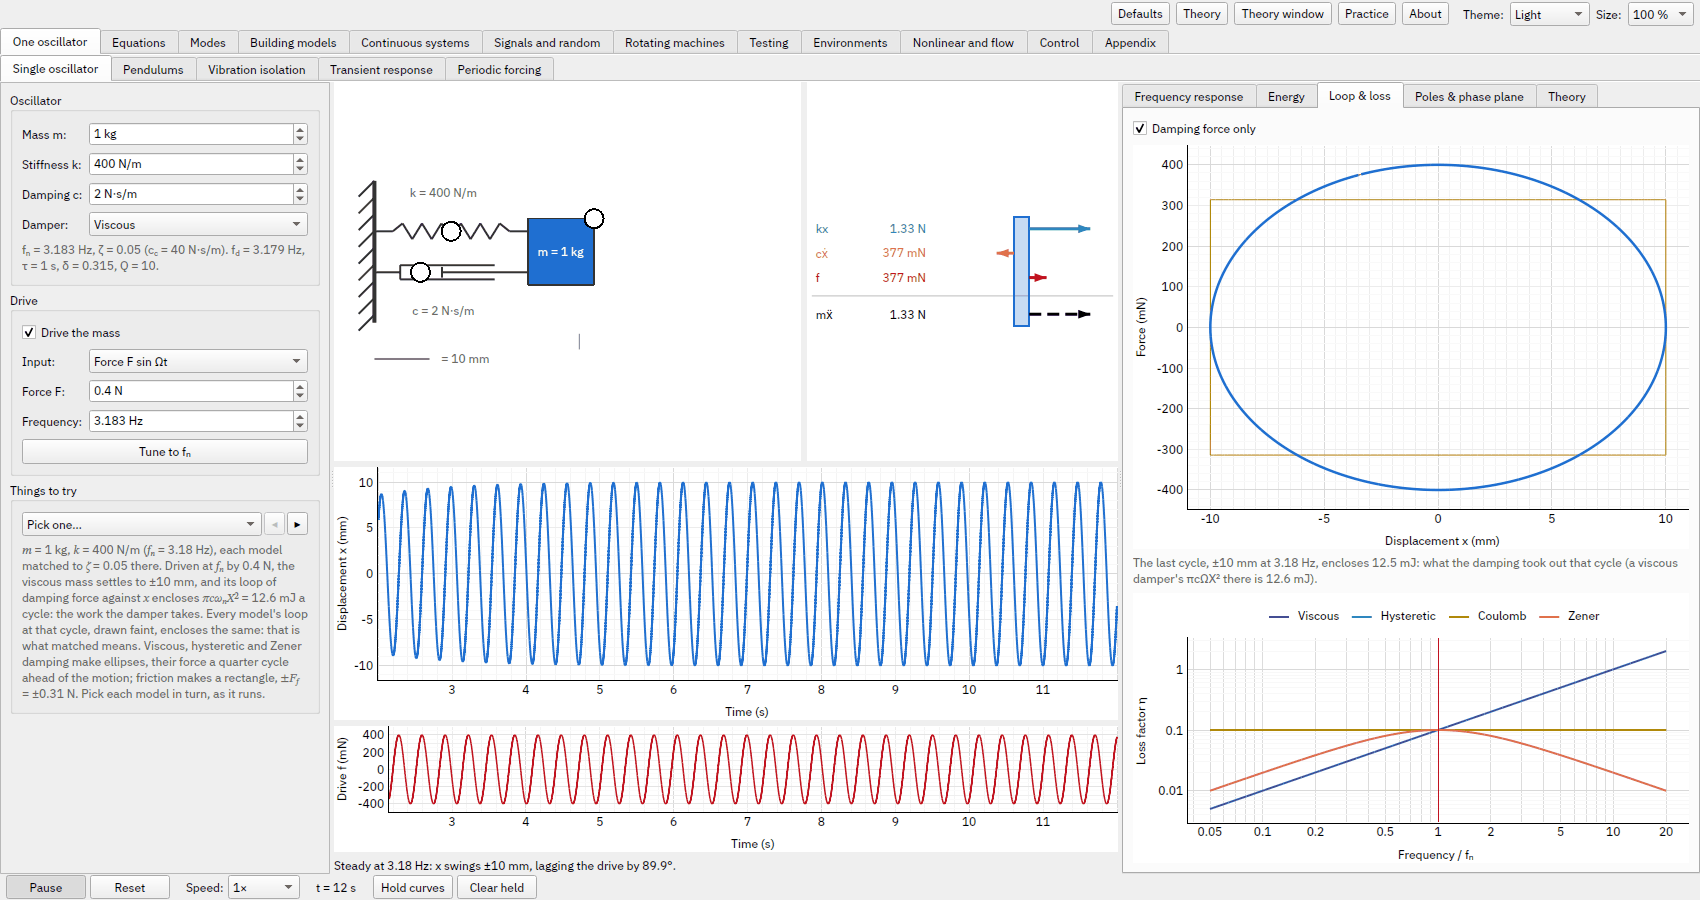
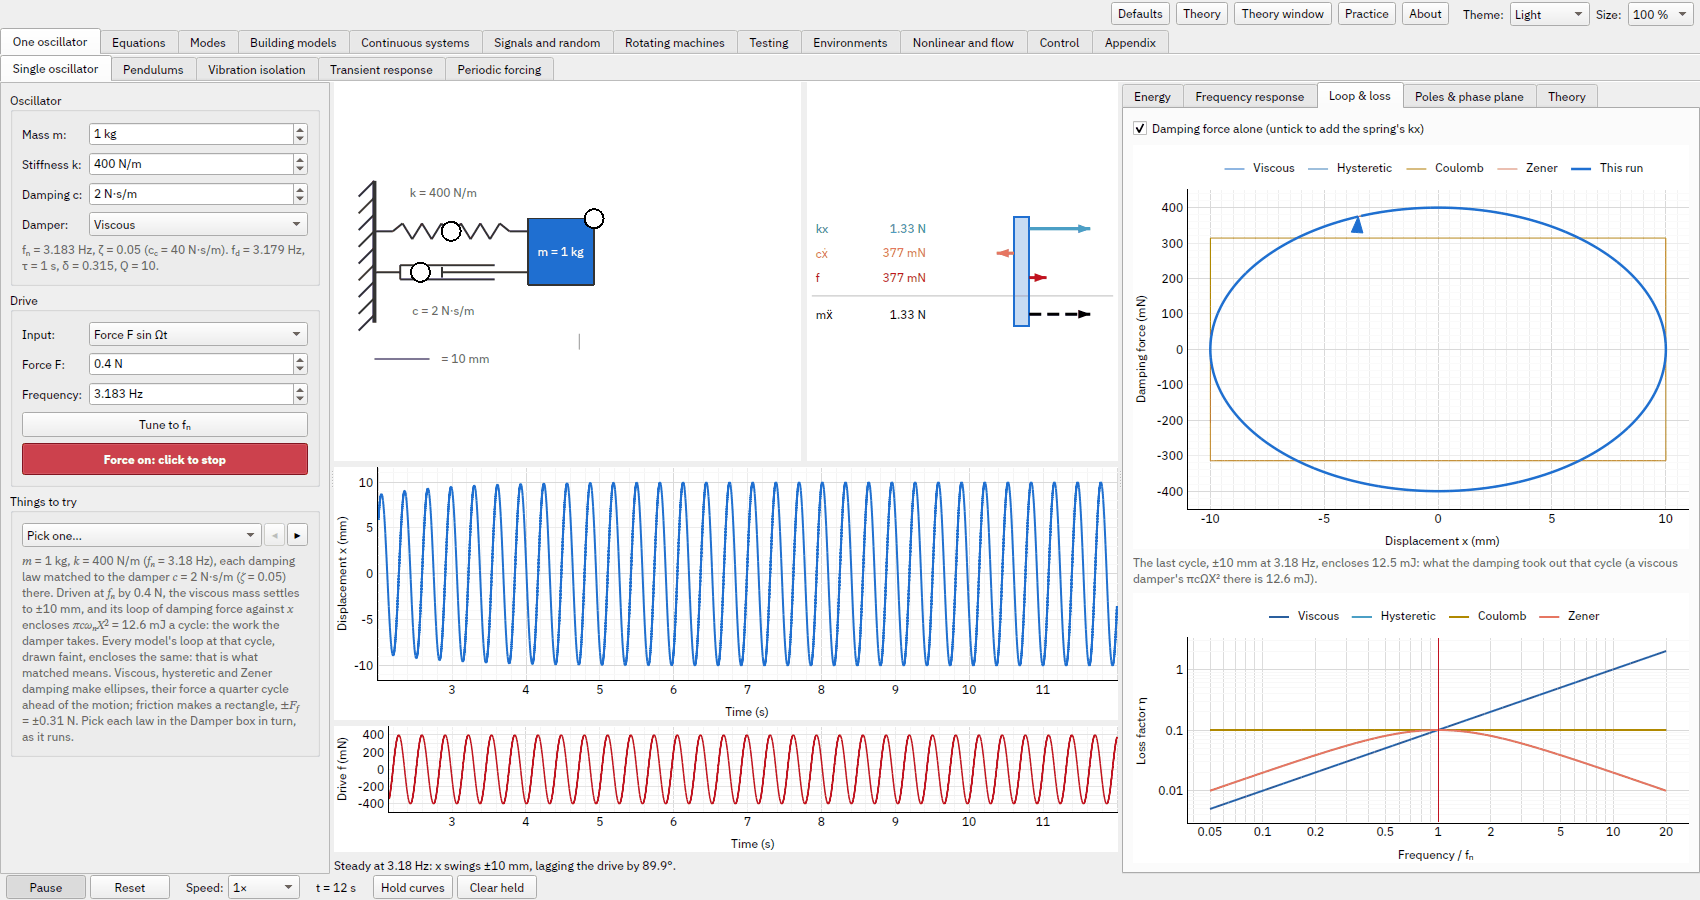
Single oscillator screenshots: the walkthrough's buttons, sweep settings, joined points and loop arrow (#478 check-in)

diff --git a/docs/one-oscillator.md b/docs/one-oscillator.md
@@ -37,9 +37,9 @@ draws the law's curve (friction's resonance runs away past 4F<sub>f</sub>/π) an
 phasors beside the Nyquist plot. Sixteen Things to try, after the controls, are setups to come back to, the
 oscillator's eight and then the laws'; their predictions are asked once you've handled it.
 
-![Single oscillator page after a sweep: m = 1 kg, k = 400 N/m, c = 2 N·s/m (f<sub>n</sub> = 3.18 Hz, ζ = 0.05), 15 points measured from 1.05 to 9.55 Hz with the theory's curve over them, the half-power band 3.01–3.33 Hz giving ζ ≈ 0.0503, the lag through 90° at f<sub>n</sub> and the Nyquist circle; the mass still driven at 9.55 Hz, swinging ±312 µm and lagging by 178°, with the forces on it drawn beside it](images/single_oscillator.png)
+![Single oscillator page after a sweep: m = 1 kg, k = 400 N/m, c = 2 N·s/m (f<sub>n</sub> = 3.18 Hz, ζ = 0.05), 15 points measured from 1.05 to 9.55 Hz (the sweep's range and points set beside its button) and joined by a smooth curve, the theory's curve over them, the half-power band 3.01–3.33 Hz giving ζ ≈ 0.0503, the lag through 90° at f<sub>n</sub> and the Nyquist circle; the mass still driven at 9.55 Hz, swinging ±312 µm and lagging by 178°, with the forces on it drawn beside it](images/single_oscillator.png)
 
-![Single oscillator page with the viscous damper driven by 0.4 N at f<sub>n</sub> = 3.18 Hz, swinging ±10 mm, on the Loop & loss tab: its own loop encloses about 12.5 mJ a cycle, beside the four laws' loops at that cycle (three ellipses enclosing 12.6 mJ and friction's ±0.31 N rectangle); the loss factors meet at 0.1 at f<sub>n</sub>, where the Zener element's peaks](images/single_oscillator_damping.png)
+![Single oscillator page with the viscous damper driven by 0.4 N at f<sub>n</sub> = 3.18 Hz, swinging ±10 mm, on the Loop & loss tab: its own loop, an arrowhead showing which way it's traced, encloses about 12.5 mJ a cycle, beside the four laws' loops at that cycle (three ellipses enclosing 12.6 mJ and friction's ±0.31 N rectangle); the loss factors meet at 0.1 at f<sub>n</sub>, where the Zener element's peaks](images/single_oscillator_damping.png)
 
 ## Pendulums
 
